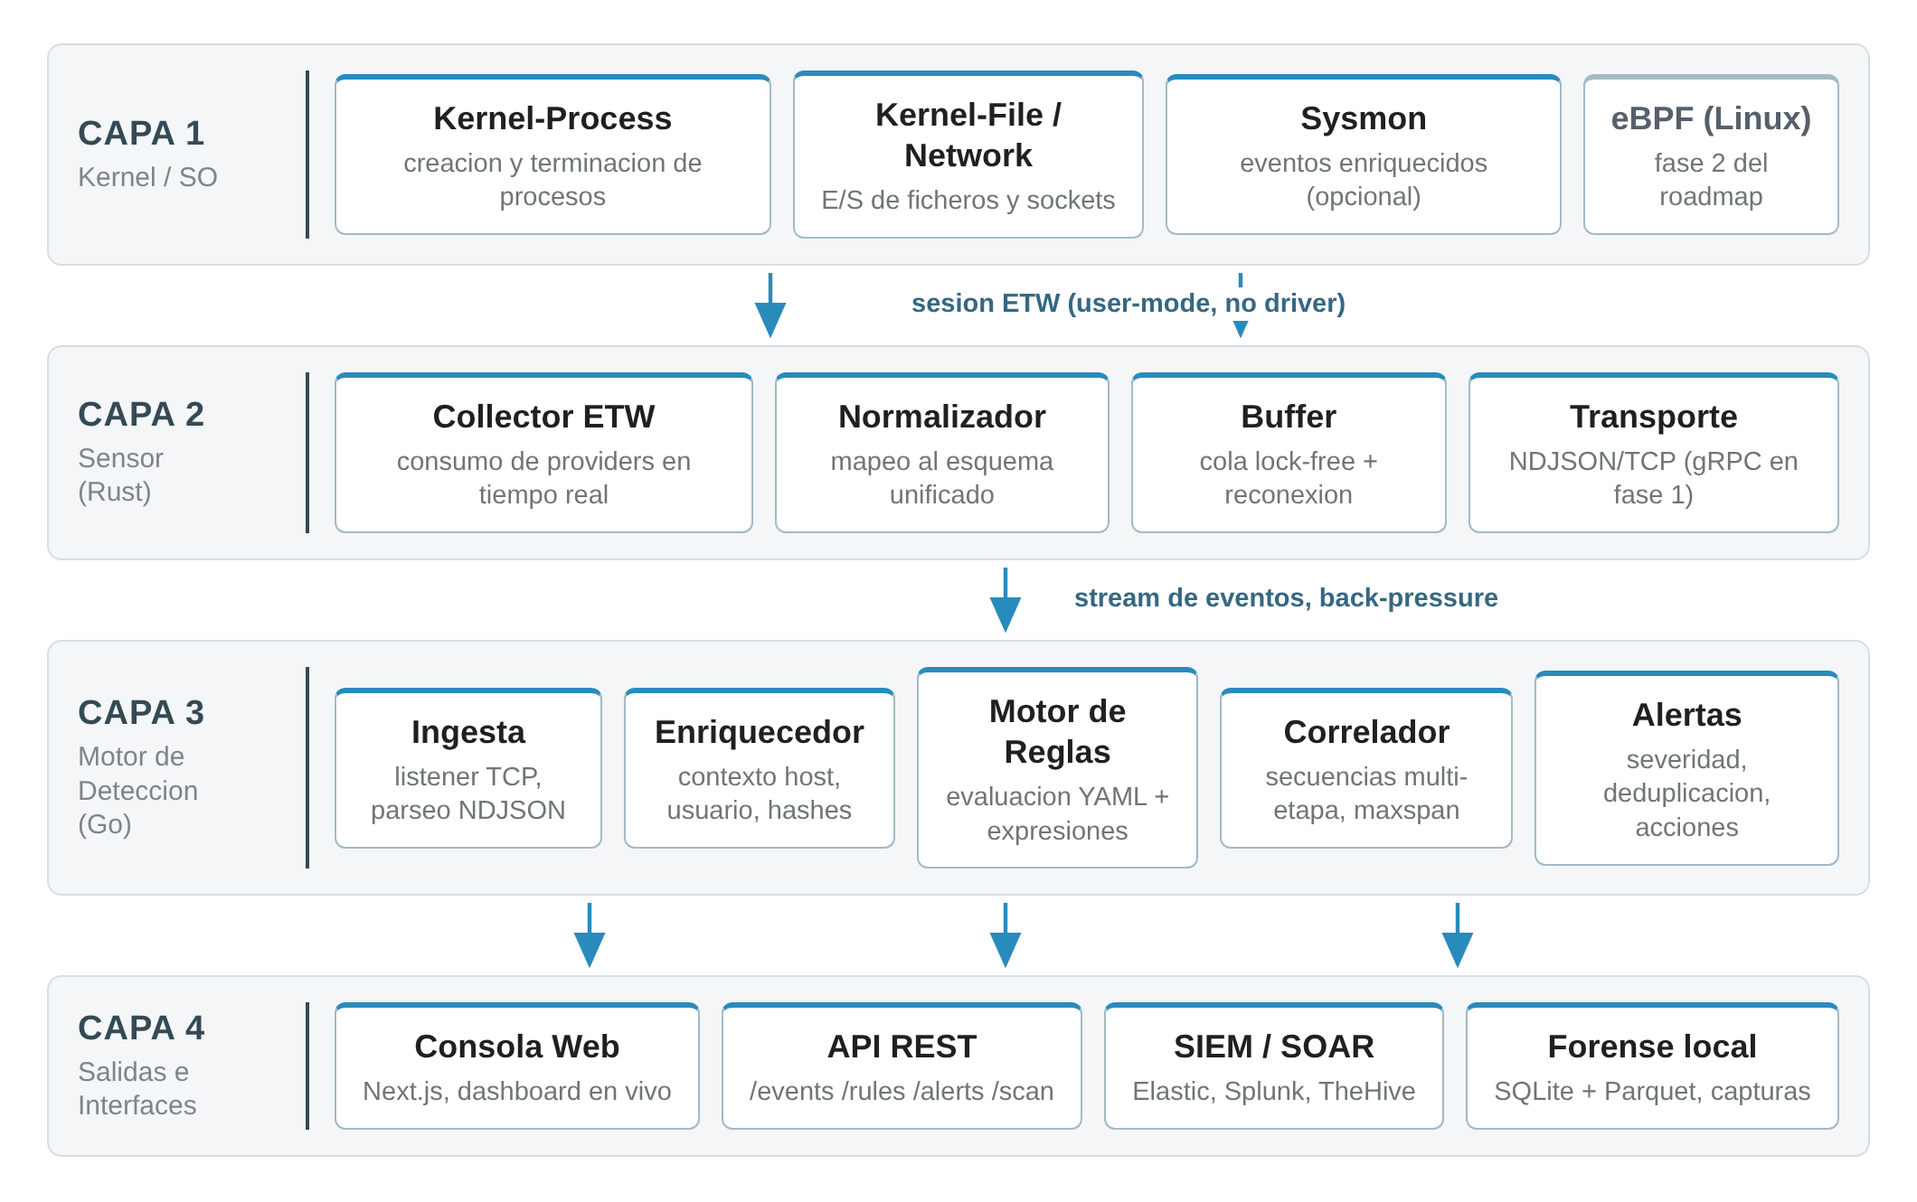
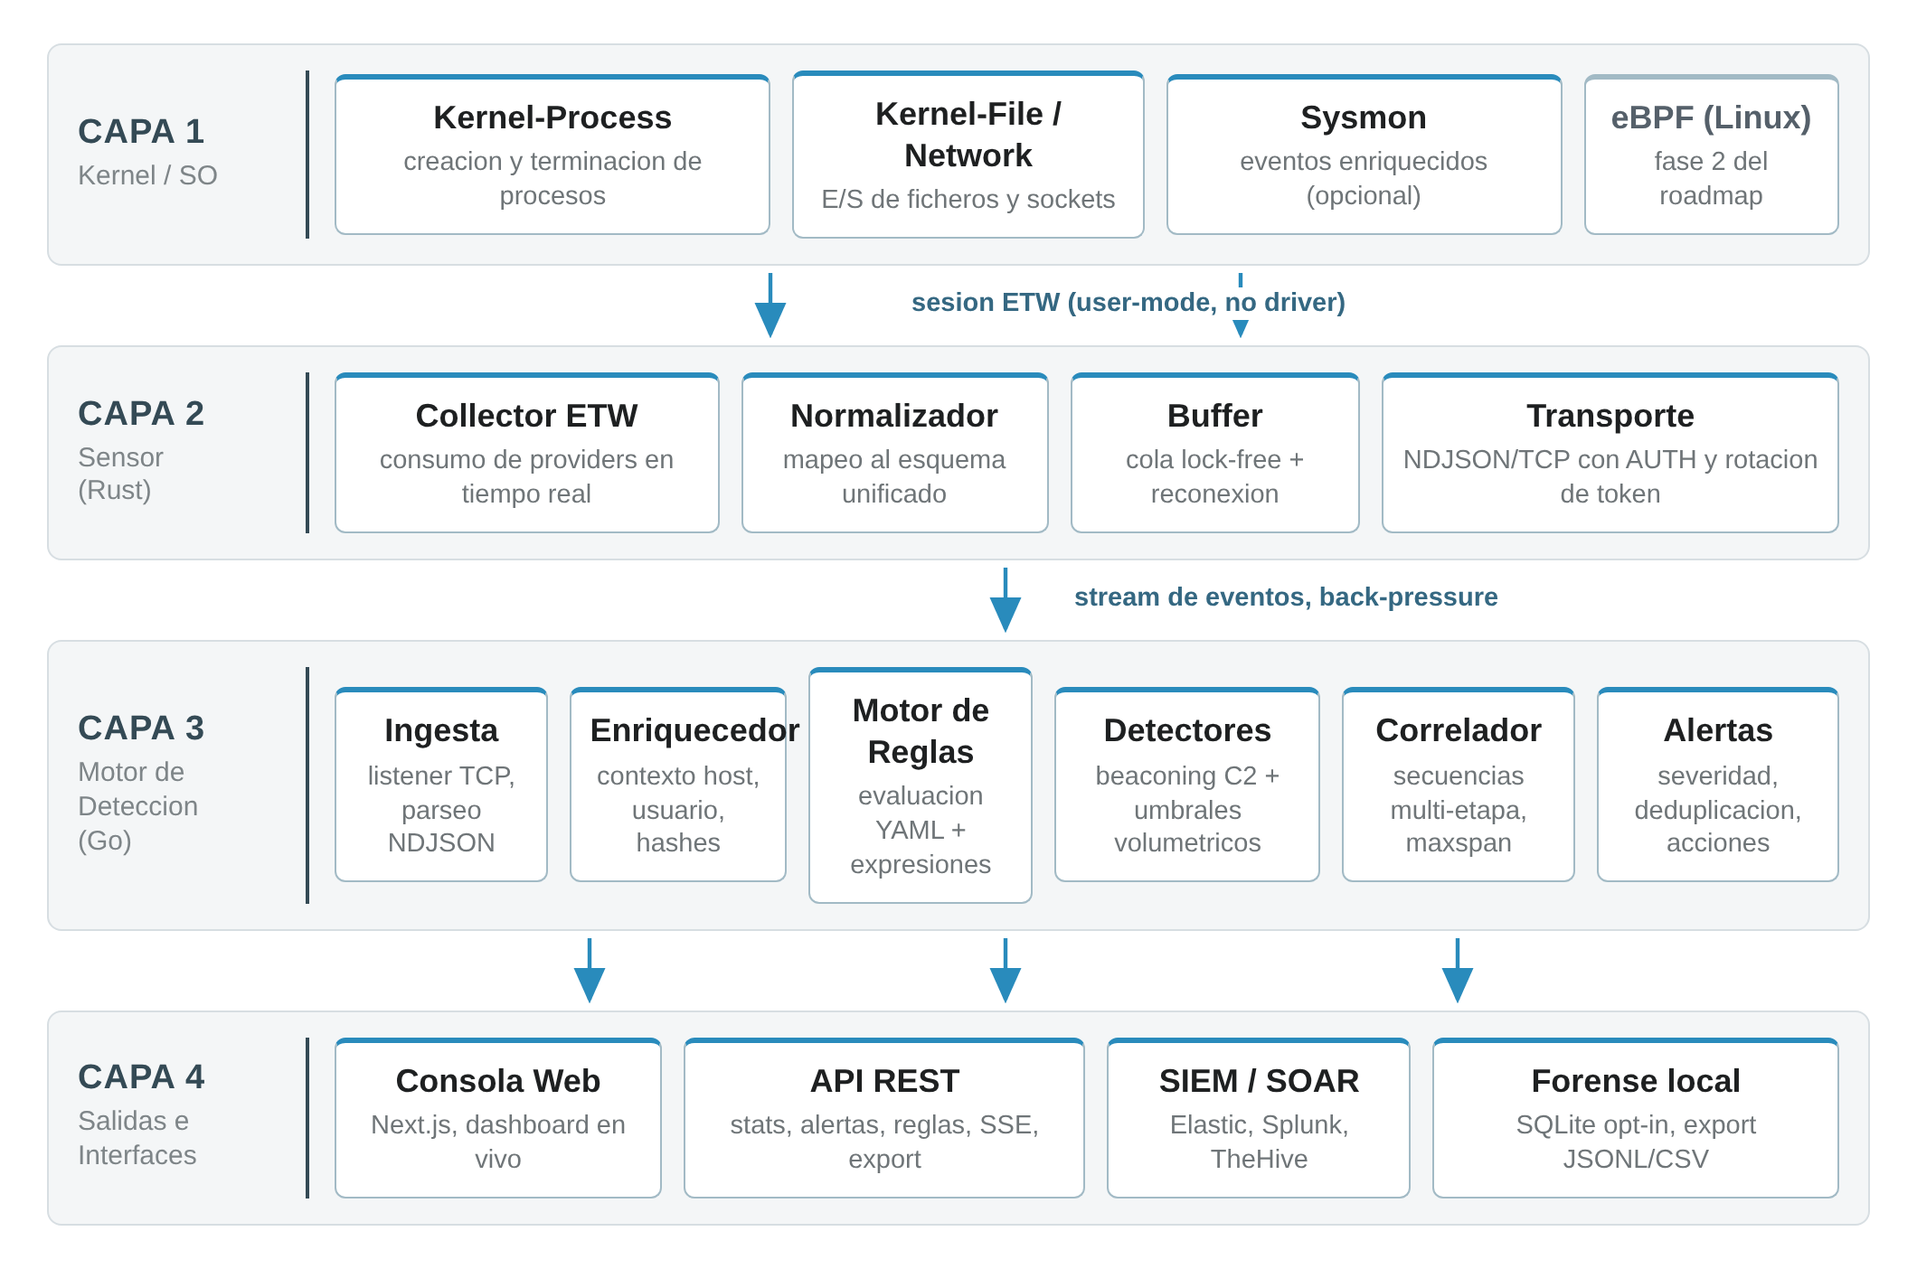
polish(03A): README layout+Mermaid y diagrama al estado implementado, roadmap v0.3 a 9/17, guard .gitignore para agent/ (colocacion de skills adoptada de 03-B tras rebase) + informe de ronda (A)

diff --git a/docs/assets/src/diagram_arquitectura.html b/docs/assets/src/diagram_arquitectura.html
@@ -122,7 +122,7 @@
       </div>
       <div class="node">
         <div class="nt">Transporte</div>
-        <div class="nd">NDJSON/TCP (gRPC en fase 1)</div>
+        <div class="nd">NDJSON/TCP con AUTH y rotacion de token</div>
       </div>
     </div>
   </div>
@@ -152,6 +152,10 @@
       <div class="node">
         <div class="nt">Motor de Reglas</div>
         <div class="nd">evaluacion YAML + expresiones</div>
+      </div>
+      <div class="node">
+        <div class="nt">Detectores</div>
+        <div class="nd">beaconing C2 + umbrales volumetricos</div>
       </div>
       <div class="node">
         <div class="nt">Correlador</div>
@@ -185,7 +189,7 @@
       </div>
       <div class="node">
         <div class="nt">API REST</div>
-        <div class="nd">/events /rules /alerts /scan</div>
+        <div class="nd">stats, alertas, reglas, SSE, export</div>
       </div>
       <div class="node">
         <div class="nt">SIEM / SOAR</div>
@@ -193,7 +197,7 @@
       </div>
       <div class="node">
         <div class="nt">Forense local</div>
-        <div class="nd">SQLite + Parquet, capturas</div>
+        <div class="nd">SQLite opt-in, export JSONL/CSV</div>
       </div>
     </div>
   </div>

diff --git a/docs/agentes/03-pulimiento/ronda_2026-09-30_16h10_A.md b/docs/agentes/03-pulimiento/ronda_2026-09-30_16h10_A.md
@@ -1,0 +1,80 @@
+# Informe de ronda — Agente 03-A (Pulimiento, carril backend Go) — 2026-09-30 16h10 (Europe/Madrid)
+
+**Base de partida:** `origin/main` = `e14fcbd` (04-B: live-fire de las guardas de atribución del bench + fila de clase del runner). Mientras esta ronda estaba en vuelo aterrizó la ola de transición (`f4efa5a` Director 15h46 → `3793fe0` 02-B → `7ea89c3` 02-A → `496e1f4` 03-B): el rebase pre-push trajo esa ola y un conflicto con mi pareja, resuelto según la regla 7 (ver §3.1 y §8). Primera ronda reportada bajo la convención v2, iniciada bajo la v1 — la matización de carril va en §1.
+
+## 1. Resumen ejecutivo
+
+Ronda de **barrido de fondo del rol** iniciada con la cola cerrada según el Director 13h15: auditoría de rastros de marca de IA sobre el árbol de producto, deber periódico de orden del árbol/README y verificación de dependencias. Cinco puntos trabajados a fondo: (1) colocación del tooling de diseño — mi resolución inicial (despublicar) colisionó con la de mi pareja 03-B ya publicada; adopto la suya y aporto el guard de `.gitignore`; (2) «Repository layout» del README sincronizado con los cuatro paquetes A1-A4 y las configs de detector; (3) diagrama Mermaid al wiring verificado en fuente (threshold + risk); (4) `diagram_arquitectura.png` regenerado al estado implementado con verificación visual; (5) roadmap de la v0.3 en `docs/README.md` al valor publicado (9/17). Cero cambios de código de producto: la batería compilada vigente no se invalida.
+
+**Matización de carril:** la ronda arrancó bajo la v1 (03 como entidad única, Director 13h15 como última acta); bajo la v2 el grueso de lo trabajado cae en el carril docs/UX de mi pareja B. Los ficheros tocados son disjuntos de los suyos (verificado en §8), no hay duplicación de contenido, y desde la próxima ronda tomo el carril backend Go que me corresponde como A.
+
+## 2. Lectura cruzada (confirmación)
+
+- **Al iniciar** (puerta obligatoria): último informe del Director disponible, `13h15` — sin prioridad ALTA para 03; la asignación del nit del PDF aparecía como HECHO verificado. Mis tres últimas actas (12h35, 12h49, 13h03) y las recientes de 02 (12h30) y 04 (13h30, 12h55).
+- **Durante el rebase pre-push** entraron y fueron leídas en su totalidad: `f4efa5a` (Director 15h46 — asigna a 03 la «observación de colocación de agent/skills» y abre la transición v2), `3793fe0` (02-B: consola, chips de detectores — sincroniza secciones de README que no son las mías, fusionado limpio), `7ea89c3` (02-A: diseño C3 — no toca mi carril), `496e1f4` (**03-B, mi pareja**: PROMPTS.md v2, renombrado de la carpeta de 04, reubicación de la skill).
+- **Solape detectado y su resolución:** el punto (1) de mi ronda era exactamente la colocación de `agent/skills` asignada a mi rol por el Director 15h46; mi pareja la ejecutó y publicó primero. Regla de la casa: la versión publicada manda — adopté su resolución en el rebase y nunca forcé el push (§3.1).
+
+## 3. Detalle por cambio
+
+### 3.1 — Colocación del tooling de diseño: conflicto con la pareja resuelto adoptando su resolución
+
+- **Mi análisis independiente (previo al rebase):** `agent/skills/design-taste-frontend/SKILL.md` (1.208 líneas) y `skills-lock.json` viajaban en el árbol de producto desde la ola temprana `e0b789c`, antes de que el `.gitignore` declarara su política de *«Agent tooling residue (not part of the product)»*; el SKILL.md habla de LLMs como su consumidor; y las dos rutas no tenían ninguna referencia en README, docs/README, Makefile, Dockerfile, `.github`, GUIA-VERIFICACION.md ni PROMPTS.md. Mi resolución fue despublicarlas (`git rm --cached`, ficheros en disco).
+- **La resolución publicada de 03-B (adoptada):** la skill se reubica en `docs/agentes/skills/` — el área documental del equipo, donde las referencias al tooling son legítimas por diseño — con README de procedencia, y `skills-lock.json` permanece en la raíz como manifiesto de la herramienta `skills` (ahora norma en PROMPTS.md v2 §Estructura: «no moverlo de la raíz»; el Director 15h46 §3 ya lo citaba como activo de auditoría con hash). En el conflicto `UD` del rebase acepté su versión (`git add` del fichero en su ruta nueva) y **restauré** `skills-lock.json` desde su commit, porque mi borrador lo habría eliminado en silencio al aplicar limpio.
+- **Lo que sobrevive de mi ronda:** el guard en `.gitignore` — `agent/` queda ignorado para que la ruta no vuelva a aparecer como directorio de producto, con el comentario reconciliado con la v2 (skill en `docs/agentes/skills/`, lock en la raíz, `agent/` no regresa). `git check-ignore -v` verifica el guard; `skills-lock.json` vuelve a estar trackeado (verificado en `git ls-files`).
+
+### 3.2 — «Repository layout» del README sincronizado con el árbol real
+
+La lista no reflejaba los cuatro paquetes aterrizados con las olas A1-A4 (el texto de la misma sección y el PDF v0.3 sí los describen — era deriva de la lista sola, contrastada contra los godoc headers de cada paquete): `internal/beacon/` (C2 call-home sobre network.connect), `internal/threshold/` (conteos ventanales por regla/host), `internal/sigma/` (conversor YAML → pack nativo vía CLI), `internal/risk/` (score por host con decay, servido por /api/stats). Añadidas además las configs de detector de la raíz `beacons.yaml` y `thresholds.yaml` (hot-reload verificada en `run.go:533-539`) y la descripción de `scripts/dev-tests/` actualizada a la batería real (E2E por detector y ciclo de vida, drift-check OpenAPI, bench a dos pasadas, smokes con binarios reales).
+
+### 3.3 — Diagrama Mermaid del README al wiring verificado en fuente
+
+El diagrama dibujaba el detector beaconing (A3) pero no los otros dos consumidores del stream ni el riesgo. Añadidos, cada arista contrastada con el código antes de dibujarla (`run.go:618/624`, `api.go:91/361`, envoltorio de supresión `run.go:479-489`): `ENR --> THR` y `THR --> ALR` (los umbrales entran por el mismo camino de alertas, sin arista al correlador — semántica Q3 del dictamen de 04, comentada en el propio código) y `ALR --> RSK` (el risk tracker vive en el hub del binario). IDs `THR`/`RSK` sin colisión (grep, 0 duplicados).
+
+### 3.4 — `diagram_arquitectura.png` regenerado al estado implementado
+
+El PNG seguía siendo el visual del diseño v0.1: sin detectores conductuales, con elementos que no existen («gRPC en fase 1», «Parquet», endpoint `/scan`) y sin la AUTH que hoy es contrato. Como `docs/assets/README.md` lo posiciona como visual de resumen VIGENTE (no histórico), se actualiza: capa 2 Transporte → «NDJSON/TCP con AUTH y rotacion de token»; capa 3 añade nodo «Detectores» (beaconing C2 + umbrales volumétricos); capa 4 API REST → «stats, alertas, reglas, SSE, export» (superficie real del OpenAPI: 14 operaciones contrastadas) y Forense local → «SQLite opt-in, export JSONL/CSV». Regenerado con la receta de `docs/assets/README.md` (Playwright, screenshot del `.canvas`, `deviceScaleFactor: 2` → 2120×1404 px) y **verificación visual completa**: 6 nodos en la capa 3 sin desbordes, flechas alineadas, sin artefactos. Heading de la sección «Architecture (v0.1)» → «Architecture» con su ancla del TOC corregida en el mismo pase (`#architecture-v01` → `#architecture` — habría quedado rota).
+
+### 3.5 — `docs/README.md`: roadmap de la v0.3 al valor publicado
+
+El párrafo histórico decía «la v0.3 … sube el roadmap a 8/17», contradiciendo el párrafo contiguo (scoreboard 9/17 del Director 13h05) y al propio PDF publicado, que dice 9/17 en §4 y §7 desde la corrección de integración de mi acta 13h03. Corregido a 9/17 con mención del scoreboard y de que la corrección viajó dentro de la revisión.
+
+## 4. Archivos innecesarios eliminados o movidos en esta ronda
+
+- Ninguno eliminado por mí (el conflicto de la 3.1 se resolvió SIN borrar nada de la pareja; mis dos rutas candidatas permanecen según su resolución).
+- Editados con motivo documentado: `.gitignore` (guard de `agent/` + comentario reconciliado), README (layout, Mermaid, heading/TOC), `docs/README.md` (roadmap), `src/diagram_arquitectura.html` + PNG regenerado.
+- Barrido de huérfanos en mi carril: `scripts/arq_v03/` del pipeline del PDF NO está comprometido en el repo (solo local — verificado con `git ls-files scripts/`), sin residuos temporales en el árbol.
+
+## 5. Rastros de marca de IA encontrados y eliminados
+
+- **Producto (fuera de `docs/agentes/`):** los hits «AI analyst»/«AI triage» (README, consola) se clasifican en la categoría funcional legítima — ahora norma explícita en PROMPTS.md v2 regla 3 («las menciones a funcionalidades de PRODUCTO, p. ej. el analista bring-your-own OpenAI-compatible, son legítimas»). El único rastro ilegítimo del árbol era la colocación del tooling (§3.1), cerrado por mi pareja y adoptado.
+- Sin menciones nuevas introducidas: commit y acta firmados con la identidad del mantenedor (identidad local del clon fijada a `Ruby570bocadito` al iniciar, según regla 2 — la global del contenedor es la artificial «Z User»).
+
+## 6. Estado del árbol / README / dependencias (verificación)
+
+- `git diff` de la ronda: 6 ficheros propios (+109/−11 tras el rebase, excluida la ola entrante); dif quirúrgico, **cero cambios Go/TS/scripts** → las baterías vigentes (15/15 paquetes, `-race`, E2E de la casa, bun/tsc/next de la ola de 02-B) siguen certificando el código compilado; nada que re-correr desde docs. Sin toolchain declarado en este entorno, no se toca código (regla 6).
+- Anchors del TOC verificados tras el cambio de heading; Mermaid sin IDs duplicados; PNG inspeccionado visualmente; `git check-ignore -v` confirma el guard de `agent/`.
+- Dependencias (deber periódico, sin cambios): `go.mod` — las 6 deps directas importadas (cobra/bubbletea/lipgloss/term en `cmd/engine`, yaml.v3 en rules/sigma, sqlite en store); consola — deps usadas en componentes (muestreo grep); hub — `socket.io` única dep, usada; lockfile único `bun.lock` en consola y hub, sin `package-lock.json` (política desde mi ronda 19h31).
+- Árbol: `docs/agentes/` queda en la estructura v2 completa (01-, 02-, 03-, 04-seguridad/, skills/, GUIA, PROMPTS v2) — verificada tras el rebase; el README no cita rutas internas de `docs/agentes/` que exijan sync adicional.
+
+## 7. Bugs o vulnerabilidades detectados (para 04)
+
+Ninguno en esta ronda (sin cambios de código; el barrido fue documental/visual). Los que surgieron en vuelo (semántica de bind del engine, guardas del bench) ya fueron cazados y certificados por 04-B/Director en la ola 12h55-15h46.
+
+## 8. Aspectos para otros agentes
+
+- **03-B (pareja):** sin solape de ficheros — tú tocaste `PROMPTS.md`, la carpeta de 04 y `docs/agentes/skills/`; yo README, `docs/README.md`, `docs/assets/*` y `.gitignore`. El único cruce fue el conflicto del rebase por la colocación de la skill, resuelto adoptando tu versión publicada (nada tuyo fue sobrescrito ni forzado). Tu propuesta de la sección de verificación de consola en GUIA-VERIFICACION.md queda en tu carril — no la reclamo.
+- **Director:** la asignación de 15h46 (colocación de agent/skills) queda HECHA con la resolución de 03-B adoptada y el guard de `.gitignore` añadido por mí; marcadores citados sin recalcular: defectos 26/26, roadmap 9/17 (scoreboard 15h46).
+- **04-A/04-B:** vuestros informes nuevos van a `docs/agentes/04-seguridad/` con sufijo `_A`/`_B` (convención v2 de mi pareja); nada pendiente de mi carril para vosotros.
+- **Propietario:** sin cambios de código; el PAT sigue expuesto en el chat (rotación reiterada por el Director); Discord: `DISCORD_WEBHOOK_URL` no está configurada en este entorno — se dice una vez y se continúa (política v2 §Discord); las actas públicas en GitHub mitigan la pérdida del canal.
+
+## 9. Pendientes de pulido para próximas rondas
+
+- Desde la próxima ronda mi carril es backend Go (A): candidatas — pase de consistencia de comentarios/godoc en `internal/` tras las olas A1-A4, y revisión de nomenclatura en `scripts/dev-tests/`.
+- Los dos leves heredados de mis actas 11h41/12h17 (vigentes en 12h35): alargar el GIF de búsqueda cuando se toque la vista de alertas (carril de mi pareja) y el renombrado del proyecto (decisión del propietario).
+- Si la primera nightly del cron (02:30 UTC) registra su punto de serie, la próxima revisión documental del PDF puede refrescar la serie con clase de entorno — apuntado por 04/Director; el README no lo cita por ser dato por-corrida (solo la propiedad «dato, no veredicto», que es estable).
+
+## 10. Estado
+
+- Push a main tras rebase limpio (1 conflicto resuelto según regla 7, sin force); `main == origin/main` post-push (verificado).
+- Scoreboards citados del Director 15h46: defectos 26/26 cerrados, roadmap 9/17.
+- Canal Discord: sin `DISCORD_WEBHOOK_URL` en este entorno → sin reporte exterior (aviso único, no bloquea).

diff --git a/README.md b/README.md
@@ -45,7 +45,7 @@ A behavioral detection framework built by an offensive-security practitioner, in
 
 - [Why security-framework](#why-security-framework)
 - [Features](#features)
-- [Architecture (v0.1)](#architecture-v01)
+- [Architecture](#architecture)
 - [Quickstart (tracer bullet)](#quickstart-tracer-bullet)
   - [Local HTTP API](#local-http-api)
   - [Persistent storage (SQLite, opt-in)](#persistent-storage-sqlite-opt-in)
@@ -100,9 +100,9 @@ And one engineering rule that shapes everything else: **no simulated data in the
 | **Auth** | Shared-token ingest handshake (constant-time), zero-downtime token rotation window, optional Bearer on the API and on outbound webhooks |
 | **Ops** | One-command Windows installer (six commands on PATH), Docker image for the engine, GitHub Actions CI on every push |
 
-## Architecture (v0.1)
+## Architecture
 
-![Architecture: kernel, Rust sensor, Go detection engine and output layers](docs/assets/diagram_arquitectura.png)
+![Architecture: kernel, Rust sensor, Go detection engine with its behavioral detectors and output layers](docs/assets/diagram_arquitectura.png)
 
 ```mermaid
 flowchart LR
@@ -121,10 +121,13 @@ flowchart LR
         ING["ingest · schema validation"] --> ENR["enrich"]
         ENR --> RUL["rules · hot-reload 15 s"]
         ENR --> BCN["beaconing tracker · C2 timing"]
+        ENR --> THR["volumetric thresholds · windowed counts"]
         RUL --> COR["kill-chain correlator"]
         RUL --> ALR["alert · dedup + render"]
         COR --> ALR
         BCN --> ALR
+        THR --> ALR
+        ALR --> RSK["risk tracker · per-host score"]
         ALR --> ACT["actions · webhooks"]
         ING -- "events · write-through" --> ST[("SQLite store · opt-in")]
         ALR -- "alerts" --> ST
@@ -754,10 +757,14 @@ cmd/bench/        load and latency harness (measures ingest→alert p50/p99)
 internal/ingest/  NDJSON TCP listener + schema validation
 internal/enrich/  enrichment pipeline (context, not evidence mutation)
 internal/rules/   YAML parser, rule index and evaluator
+internal/beacon/  C2 beaconing detector (timing analysis over network.connect)
+internal/threshold/ volumetric detector (windowed per-rule/per-host counts)
 internal/correlate/  kill-chain sequence correlator
+internal/sigma/   Sigma rule converter (YAML -> native rule pack via engine CLI)
 internal/alert/   alert rendering, dedup, structured JSON
 internal/actions/ rule action executor (message templates, webhooks)
 internal/api/     local HTTP API (read + alert triage write) + SSE stream + JSONL/CSV export
+internal/risk/    per-host decayed risk score from recent alerts (served via /api/stats)
 internal/store/   optional SQLite persistence (events/alerts history,
                   retention pruner; pure-Go driver, WAL)
 internal/suppress/  operator allowlist: rule/host suppressions with expiry
@@ -769,11 +776,13 @@ rules/            seeded detection pack (windows/)
 sequences/        kill-chain sequences for the correlator
 suppressions.example.yaml  annotated allowlist format (rename to
                   suppressions.yaml to arm it)
+beacons.yaml      C2 beaconing detector config (hot-reloaded with the rules)
+thresholds.yaml   volumetric detector config (hot-reloaded with the rules)
 scripts/windows/  installed runtime scripts (sf-sensor, sf-console, ...)
                   + bundled sysmon-config.xml tuned to the detection pack
-scripts/dev-tests/ end-to-end verification scripts (OpenAPI drift check,
-                  webhook receiver, ingest auth and SQLite store smokes with
-                  real binaries)
+scripts/dev-tests/ end-to-end verification scripts (per-detector and lifecycle E2E,
+                  OpenAPI drift check, two-pass nightly bench, webhook receiver,
+                  ingest-auth and SQLite store smokes, all with real binaries)
 install.ps1       one-command Windows installer
 uninstall.ps1     standalone uninstaller
 Makefile          build automation (engine, sensor, console, docker)

diff --git a/docs/README.md b/docs/README.md
@@ -30,7 +30,8 @@ original: útil para trazabilidad de decisiones, pero desactualizado en stack de
 y operadores (anunciaba `between`, no implementado). `arquitectura-tecnica-v0.2.pdf` se
 conserva como la revisión que primero describió el estado implementado; la v0.3 añade los
 techos del loader de reglas y la auditoría horizontal de la familia i* (d2d557a), el bench
-nocturno a dos pasadas y su delta de store (f205a01) y sube el roadmap a 8/17. Lo único que
+nocturno a dos pasadas y su delta de store (f205a01) y sube el roadmap a 9/17 (scoreboard
+oficial del Director 13h05, corregido en la revisión misma). Lo único que
 la v0.3 sigue declarando como futuro, sin presentarlo como capacidad: YARA, gRPC/protobuf,
 filaments Python y eBPF en Linux (fases 2-4 del roadmap). Las decisiones de diseño vigentes viven
 en la v0.3 del PDF, en el README y en los informes de `agentes/`; el directorio de ADRs
